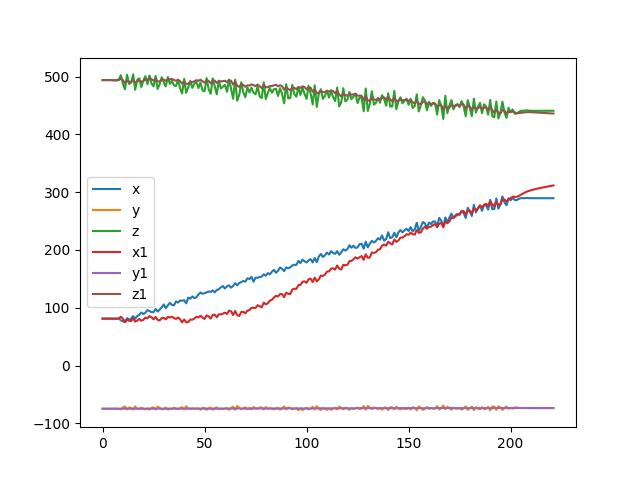
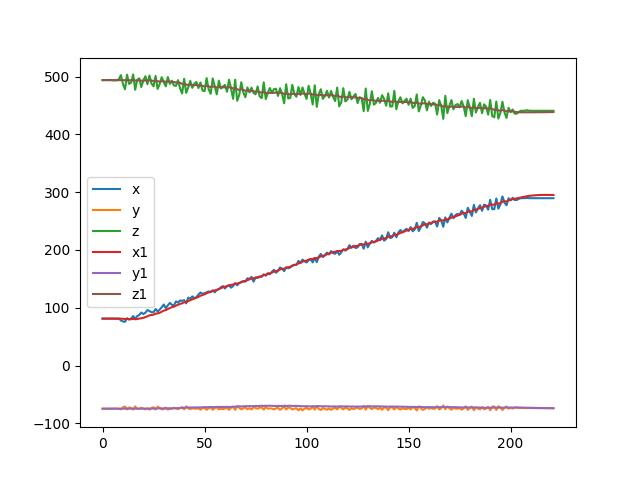
找到一组对平移运动滤波效果较好的参数

diff --git a/testEKF.py b/testEKF.py
@@ -30,6 +30,9 @@ for single in ptsInTripod:
 ptsEKF = np.zeros((ptsInWorld.shape))
 ekf = EKF(6, 3)
 state = np.zeros((6,1))
+all_z = []
+all_alpha = []
+all_beta = []
 for i in range(ptsInWorld.shape[0]):
     x = ptsInCam[i,0]
     y = ptsInCam[i,1]
@@ -37,11 +40,13 @@ for i in range(ptsInWorld.shape[0]):
     alpha = math.atan(x/z)
     beta = math.atan(y/z)
     observation = [z, alpha, beta]
+
+    all_z.append(z)
+    all_alpha.append(alpha)
+    all_beta.append(beta)
     #print(observation)
 
-    deltaTime = 0.03
-
-    # ?状态量里的速度怎么计算
+    deltaTime = 0.05
 
     if ekf.first==False:
         state[1,0] = (ptsInWorld[i,0] - ptsInWorld[i-1,0])/deltaTime
@@ -61,6 +66,14 @@ for i in range(ptsInWorld.shape[0]):
 data = ptsInWorld
 data1 = ptsEKF
 
+print('世界坐标系x、y、z的方差：')
+print(np.var(ptsInWorld[:,0]))
+print(np.var(ptsInWorld[:,1]))
+print(np.var(ptsInWorld[:,2]))
+print('z、alpha、beta的方差：')
+print(np.var(all_z))
+print(np.var(all_alpha))
+print(np.var(all_beta))
 
 length = data.shape[0]
 
@@ -69,7 +82,7 @@ x = np.linspace(0, length-1, length)
 plt.plot(x, data[:,0], x, data[:,1], x, data[:,2], x, data1[:,0], x, data1[:,1], x, data1[:,2])
 plt.legend(['x','y','z','x1','y1','z1'])
 plt.savefig('./assets/ptsInWorld.jpg')
-#plt.show()
+plt.show()
 
 
  

diff --git a/modules/ExtendKF.py b/modules/ExtendKF.py
@@ -87,7 +87,7 @@ class EKF():
 
         # 更新卡尔曼增益K_k
         kGain = (self.pMatrix @ self.hMatrix.T) @ np.linalg.inv(self.hMatrix @ self.pMatrix @ self.hMatrix.T + self.rMatrix)
-
+        print(self.pMatrix.max())
         # 更新状态量
         self.state = self.state.copy() + kGain @ (self.hMatrix @ _state - self.hMatrix @ self.state.copy())
 
